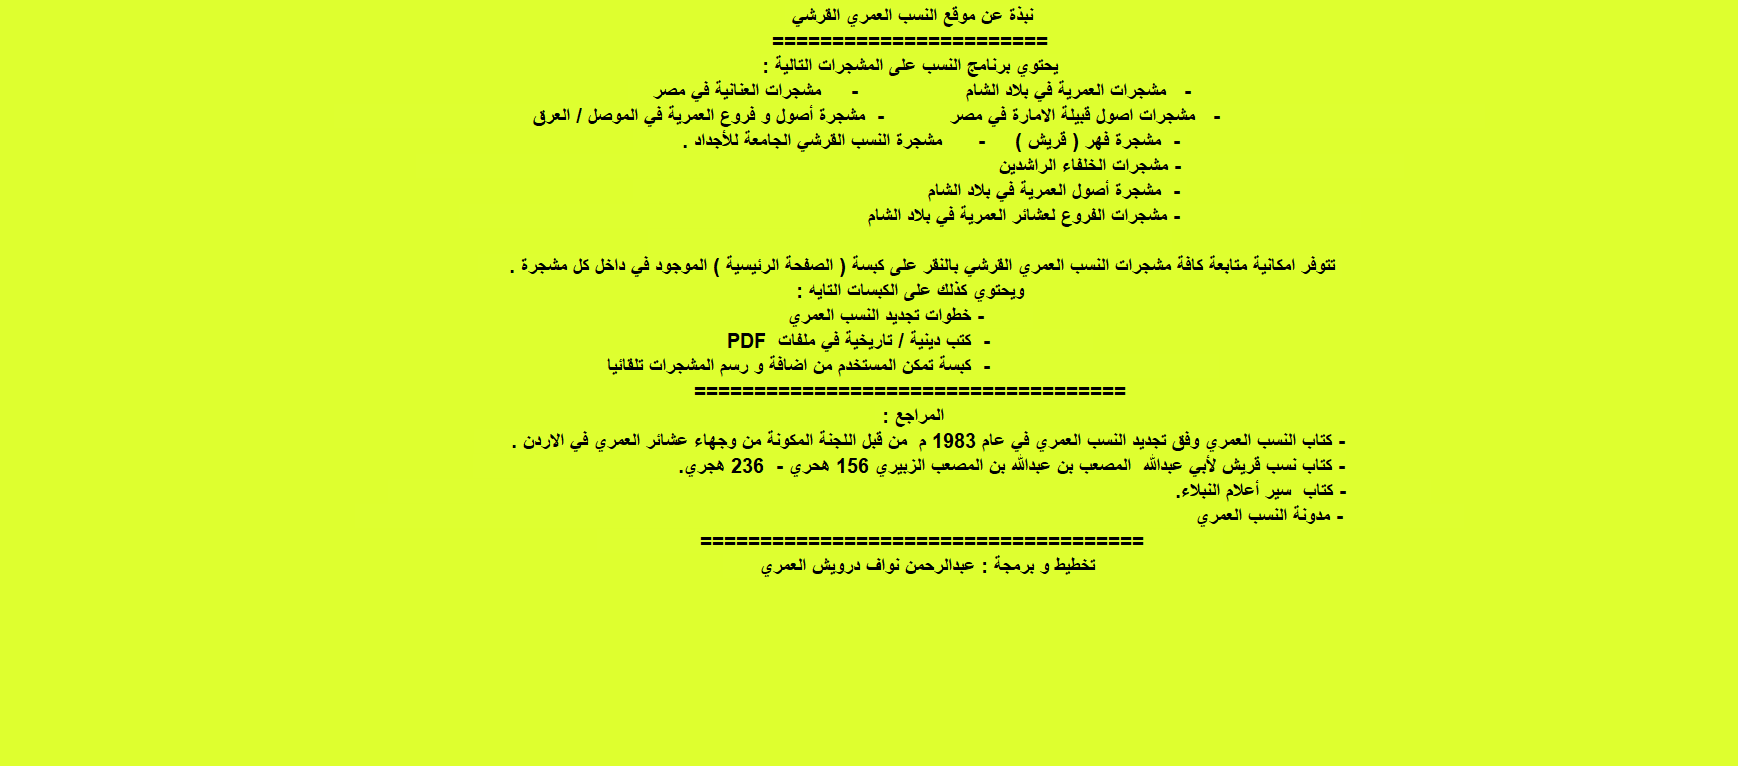
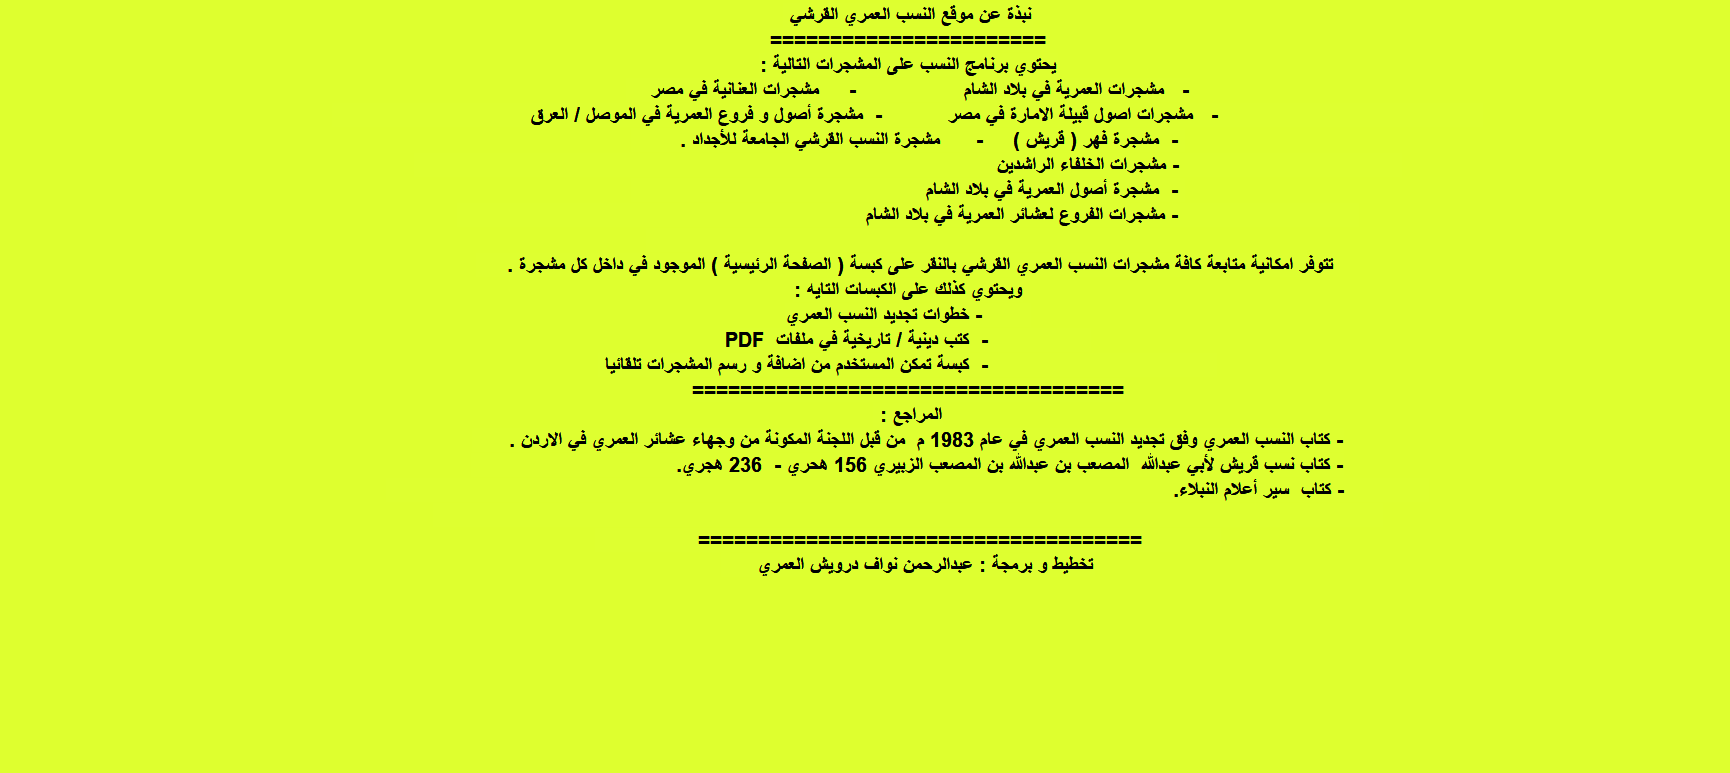
update

Changed region(s): [[0.2809, 0.3303, 0.7803, 0.6906], [0.3121, 0.0, 0.6867, 0.3003], [0.4058, 0.6906, 0.6555, 0.7507]]

diff --git a/useful books.html b/useful books.html
@@ -30,7 +30,7 @@ function FP_getObjectByID(id,o) {//v1.0
 </script>
 </head>
 
-<body style="background-color: #FF9933" onload="FP_preloadImgs(/*url*/'button1972.gif',/*url*/'button1973.gif',/*url*/'button1974.gif',/*url*/'button1975.gif',/*url*/'buttonA93.gif',/*url*/'buttonB95.gif',/*url*/'button1979.gif',/*url*/'button1980.gif',/*url*/'button1982.gif',/*url*/'button1983.gif',/*url*/'button1985.gif',/*url*/'button1986.gif',/*url*/'button1988.gif',/*url*/'button1989.gif',/*url*/'button1991.gif',/*url*/'button1992.gif',/*url*/'button1994.gif',/*url*/'button1995.gif',/*url*/'button2142.gif',/*url*/'button2143.gif',/*url*/'button2144.gif',/*url*/'button2145.gif',/*url*/'button3450.gif',/*url*/'button3451.gif')">
+<body style="background-color: #FF9933" onload="FP_preloadImgs(/*url*/'button1972.gif',/*url*/'button1973.gif',/*url*/'button1974.gif',/*url*/'button1975.gif',/*url*/'buttonA93.gif',/*url*/'buttonB95.gif',/*url*/'button1979.gif',/*url*/'button1980.gif',/*url*/'button1982.gif',/*url*/'button1983.gif',/*url*/'button1985.gif',/*url*/'button1986.gif',/*url*/'button1988.gif',/*url*/'button1989.gif',/*url*/'button1991.gif',/*url*/'button1992.gif',/*url*/'button1994.gif',/*url*/'button1995.gif',/*url*/'button2144.gif',/*url*/'button2145.gif',/*url*/'button3450.gif',/*url*/'button3451.gif')">
 
 <div id="layer1" style="position: absolute; width: 154px; height: 32px; z-index: 1; left: 927px; top: 101px">
 	<a href="http://quran.ksu.edu.sa/index.php#aya=1_1&amp;m=hafs&amp;qaree=husary&amp;trans=ar_mu">
@@ -59,15 +59,12 @@ function FP_getObjectByID(id,o) {//v1.0
 <div id="layer9" style="position: absolute; width: 117px; height: 31px; z-index: 9; left: 13px; top: 22px">
 	<a href="index.html">
 	<img id="img1" alt="الصفحة الرئيسية" height="23" onmousedown="FP_swapImg(1,0,/*id*/'img1',/*url*/'button1995.gif')" onmouseout="FP_swapImg(0,0,/*id*/'img1',/*url*/'button1996.gif')" onmouseover="FP_swapImg(1,0,/*id*/'img1',/*url*/'button1994.gif')" onmouseup="FP_swapImg(0,0,/*id*/'img1',/*url*/'button1994.gif')" src="button1996.gif" style="border: 0" width="115" /><!-- MSComment="ibutton" fp-style="fp-btn: Metal Capsule 3; fp-font-style: Bold; fp-transparent: 1" fp-title="الصفحة الرئيسية" --></a></div>
-<div id="layer29" style="position: absolute; width: 152px; height: 42px; z-index: 29; left: 927px; top: 370px; ">
-	<a href="http://khaleedanan.blogspot.com/">
-	<img id="img36" alt="مدونة النسب العمري" height="30" onmousedown="FP_swapImg(1,0,/*id*/'img36',/*url*/'button2143.gif')" onmouseout="FP_swapImg(0,0,/*id*/'img36',/*url*/'button2146.gif')" onmouseover="FP_swapImg(1,0,/*id*/'img36',/*url*/'button2142.gif')" onmouseup="FP_swapImg(0,0,/*id*/'img36',/*url*/'button2142.gif')" src="button2146.gif" style="border: 0" width="150" /><!-- MSComment="ibutton" fp-style="fp-btn: Metal Capsule 2; fp-font-style: Bold; fp-transparent: 1" fp-title="مدونة النسب العمري" --></a></div>
 
 		<div id="layer41" style="position: absolute; width: 152px; height: 43px; z-index: 41; left: 299px; top: 370px">
 			<a href="abu_baker_families.pdf.pdf">
 			<img id="img54" alt="سجل العائلات البكرية" height="31" onmousedown="FP_swapImg(1,0,/*id*/'img54',/*url*/'button2145.gif')" onmouseout="FP_swapImg(0,0,/*id*/'img54',/*url*/'button2147.gif')" onmouseover="FP_swapImg(1,0,/*id*/'img54',/*url*/'button2144.gif')" onmouseup="FP_swapImg(0,0,/*id*/'img54',/*url*/'button2144.gif')" src="button2147.gif" style="border: 0" width="153" /><!-- MSComment="ibutton" fp-style="fp-btn: Metal Capsule 2; fp-font-style: Bold; fp-transparent: 1" fp-title="سجل العائلات البكرية" --></a></div>
 		
-<div id="layer42" style="position: absolute; width: 185px; height: 45px; z-index: 42; left: 915px; top: 435px">
+<div id="layer42" style="position: absolute; width: 185px; height: 45px; z-index: 42; left: 905px; top: 370px">
 	<a href="http://www.omaritree.com/book.pdf">
 	<img id="img55" alt="تحميل كتاب النسب العمري" height="36" onmousedown="FP_swapImg(1,0,/*id*/'img55',/*url*/'button3451.gif')" onmouseout="FP_swapImg(0,0,/*id*/'img55',/*url*/'button3452.gif')" onmouseover="FP_swapImg(1,0,/*id*/'img55',/*url*/'button3450.gif')" onmouseup="FP_swapImg(0,0,/*id*/'img55',/*url*/'button3450.gif')" src="button3452.gif" style="border: 0" width="181" /><!-- MSComment="ibutton" fp-style="fp-btn: Metal Capsule 2; fp-font-style: Bold; fp-font-size: 8; fp-transparent: 1" fp-title="تحميل كتاب النسب العمري" --></a></div>
 <img alt="" height="606" src="useful%20books.png" width="1280" />
